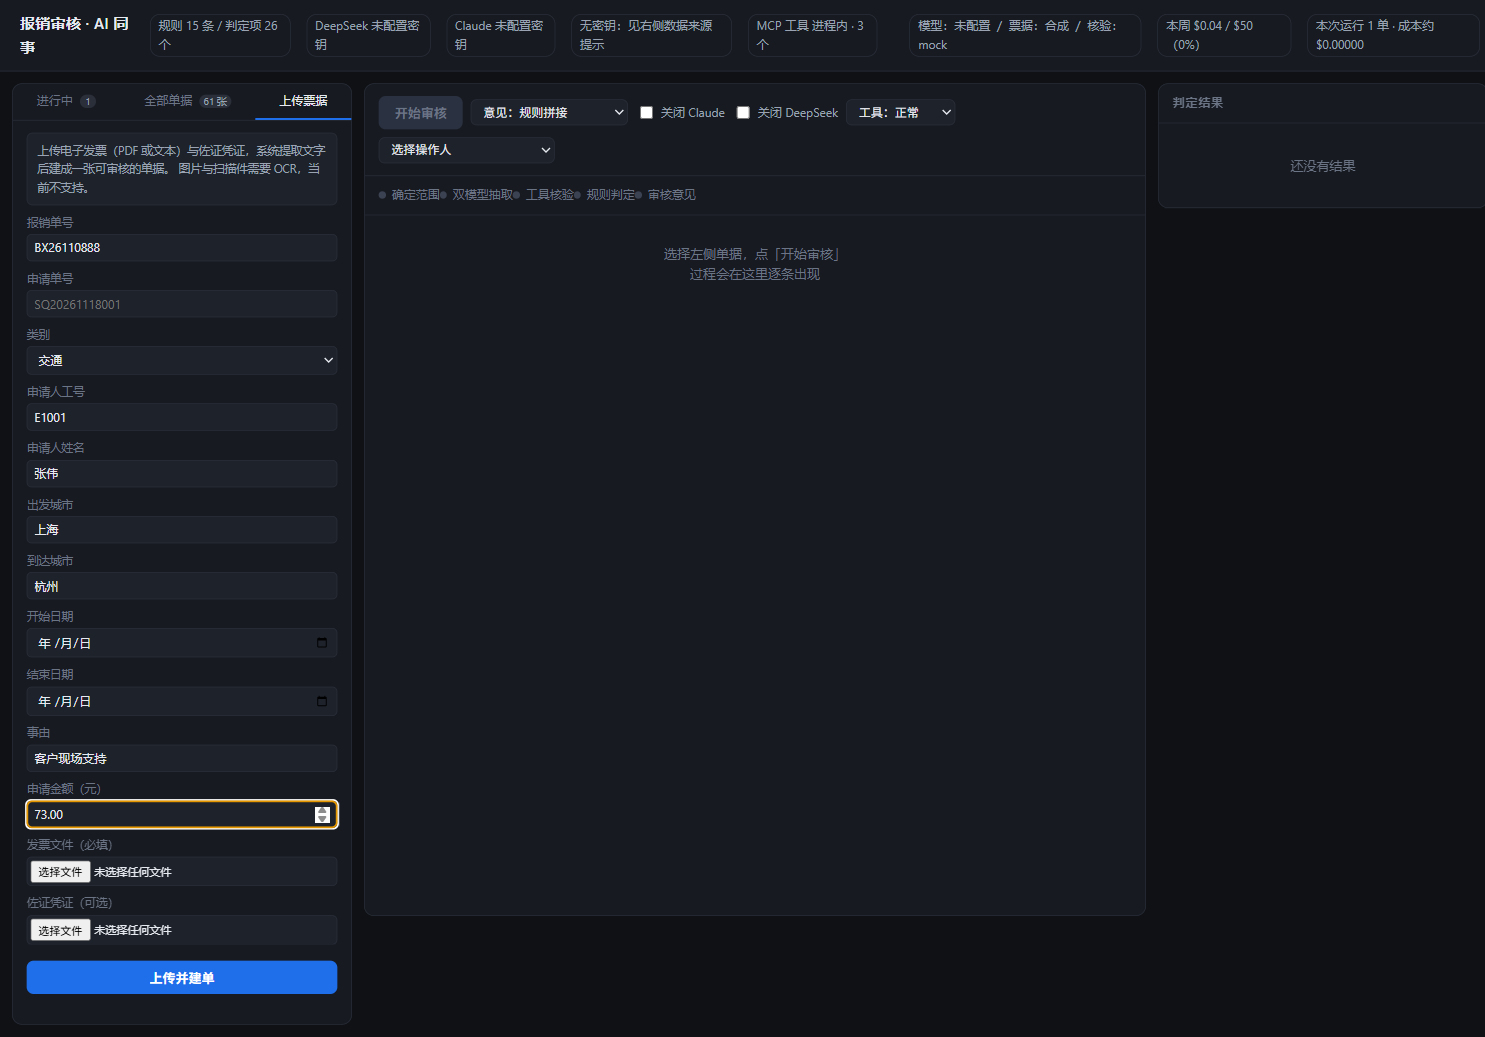
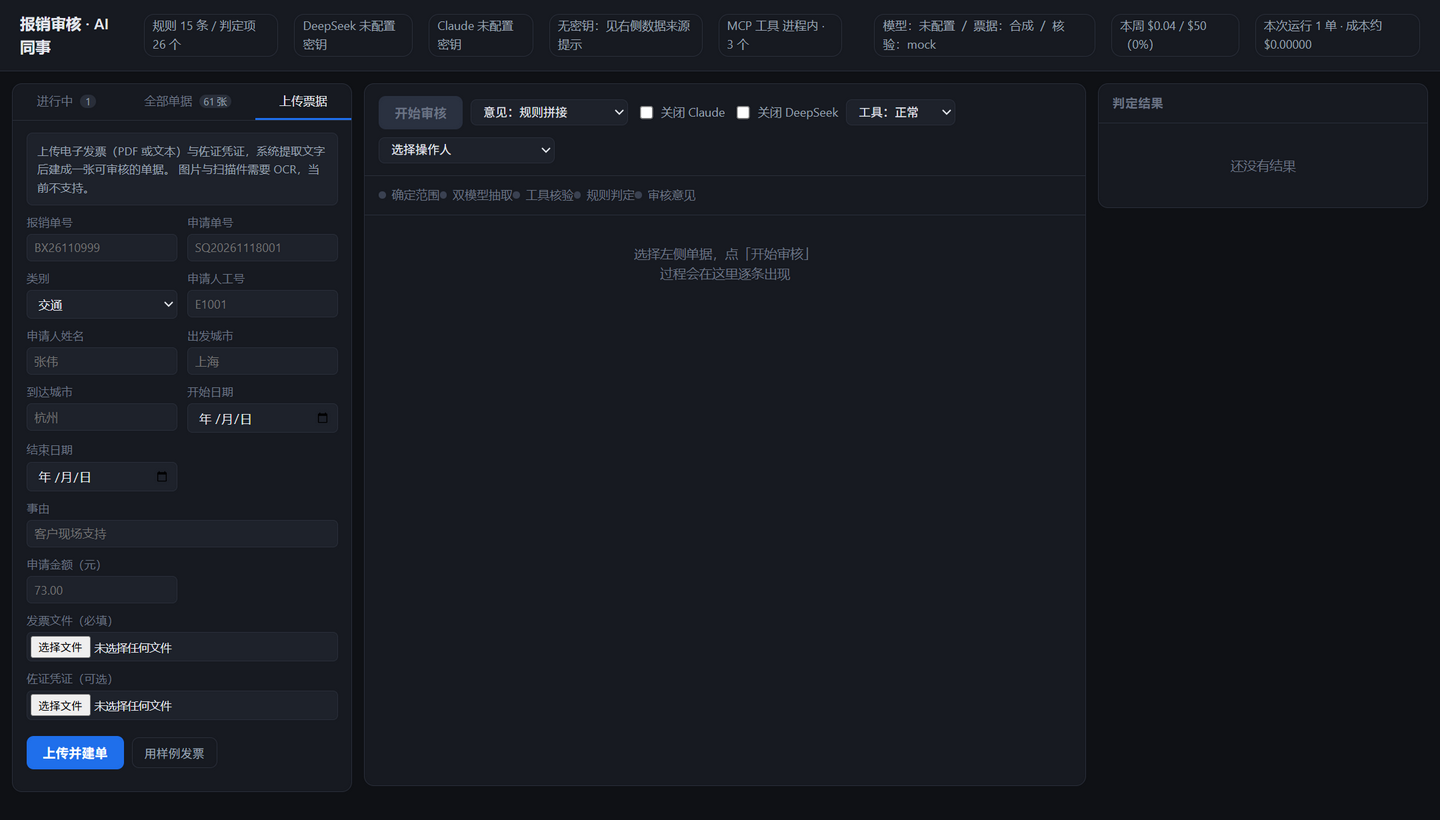
修掉"点上传按钮失败"：表单把按钮顶出了视口
现象：点「上传并建单」没反应，自动化工具报 element outside of the viewport。
量了一下：按钮在 y=960，而常见笔记本视口高度是 768–820——按钮根本不在屏幕里。

根因有三层，都不是"点击没写对"：
1. 上传表单 12 个字段单列纵向堆叠，高度约 960px，把按钮顶到了表单最下方；
2. 左栏 .panel 是 overflow:hidden，超出视口的部分永远滚不到，按钮就永远点不到；
3. 上传结果区放在按钮下方，即便点了，反馈也在屏幕外，用户会以为没生效。

改法
- 表单改两列栅格（高度减半），事由与两个文件选择器占整行；
- 按钮放进 sticky 吸底的行，滚动时始终可见；
- 左栏面板限高并允许内部滚动（.panel.left），长表单可达；
- 结果区移到整行，让反馈就在按钮下方。
- 点击后显示"正在上传 xxx（n KB）…"，避免慢网络下以为按钮坏了而重复点。

顺带补的：样例发票
- 新增 GET /api/sample-invoice 返回一份合成的电子发票 PDF；
- 界面加「用样例发票」按钮：一键填入文件与必填项，现场没有合规票据时也能验证链路。
- 这个按钮同时也是"点上传"这条路径的可复现验证手段。

验证
- 视口量测：1366×768 时按钮 top=710（视口 768）、1280×720 时 top=662（视口 720），均在屏内；
- 字段坐标确认两两成对（y 成对出现），无错位；
- 浏览器真实点击：点「用样例发票」→ 点「上传并建单」→ 建单 UP…4223、
  发票号 26157293145980000777、提取 167 字 → 自动选中并跳到列表（61 张）；
- 接着 POST /api/audit 审核该单 → 自动建任务 T0001，结论 manual_review；
- 交付包在 1366×768 下同样跑通。
- 新增 3 条回归测试锁住布局约束与样例端点；14 个包测试全绿。

关于自动化环境的说明
- Playwright MCP 在本机调用 page.click 触发 multipart 上传、或 setInputFiles 时，
  浏览器连接会重置（BROWSER_SESSION_RESET）。用 page.evaluate 触发 click()
  则一切正常，服务端能收到完整上传。
- 因此可以判定：该断连是自动化工具链路的问题，不是页面缺陷。
  上面的视口量测与真实点击验证都是用 evaluate 路径完成的。

diff --git a/reimburse-agent/internal/server/web/index.html b/reimburse-agent/internal/server/web/index.html
@@ -23,6 +23,9 @@ main{display:grid;grid-template-columns:clamp(280px,26vw,340px) minmax(320px,1fr
 @media (max-width:1000px){main{grid-template-columns:1fr}}
 @media (max-width:700px){header{flex-wrap:wrap;gap:8px}}
 .panel{background:var(--panel);border:1px solid var(--line);border-radius:10px;overflow:hidden}
+/* 左栏表单可能很长：限制高度并允许滚动，保证按钮始终可达 */
+.panel.left{max-height:calc(100vh - 90px);display:flex;flex-direction:column}
+.panel.left #uploadPane{overflow:auto;flex:1}
 .panel.right{position:sticky;top:74px;max-height:calc(100vh - 90px);display:flex;flex-direction:column}
 .panel.right .body{overflow:auto}
 .panel h2{font-size:12px;text-transform:uppercase;letter-spacing:.8px;color:var(--faint);margin:0;padding:10px 14px;border-bottom:1px solid var(--line);display:flex;justify-content:space-between;align-items:center}
@@ -131,12 +134,15 @@ pre{margin:6px 0 0;padding:8px 10px;background:#0b0d11;border:1px solid var(--li
 .tabs .n{display:inline-block;min-width:16px;padding:0 4px;border-radius:8px;background:#2a2f3a;
   color:var(--dim);font-size:10px;margin-left:4px}
 .tabs button.on .n{background:#1f3346;color:#a8c7fa}
-.upform{padding:12px 14px;display:flex;flex-direction:column;gap:8px}
+.upform{padding:12px 14px;display:grid;grid-template-columns:1fr 1fr;gap:8px 10px;align-items:start}
+.upform .full{grid-column:1 / -1}
+.upform .actions{grid-column:1 / -1;position:sticky;bottom:0;background:var(--panel);
+  padding:8px 0 2px;display:flex;gap:8px;align-items:center}
 .upform .f{display:flex;flex-direction:column;gap:3px;font-size:11.5px;color:var(--faint)}
 .upform .f input,.upform .f select{background:var(--panel2);border:1px solid var(--line);
   color:var(--fg);border-radius:5px;padding:5px 7px;font-size:12px;font-family:inherit}
 .upform .f input[type=file]{padding:3px;font-size:11px}
-.uphint{font-size:11.5px;color:var(--dim);line-height:1.6;padding:8px 10px;
+.uphint{grid-column:1 / -1;font-size:11.5px;color:var(--dim);line-height:1.6;padding:8px 10px;
   background:var(--panel2);border:1px solid var(--line);border-radius:6px}
 .upok{background:#0d1f12;border:1px solid #1d4025;color:#7ee787;font-size:12px;
   padding:8px 10px;border-radius:6px;line-height:1.6}
@@ -190,7 +196,7 @@ pre{margin:6px 0 0;padding:8px 10px;background:#0b0d11;border:1px solid var(--li
 </header>
 
 <main>
-  <section class="panel">
+  <section class="panel left">
     <div class="tabs">
       <button id="tabTasks" class="on">进行中 <span class="n" id="taskCount">0</span></button>
       <button id="tabCases">全部单据 <span class="n" id="caseCount">0</span></button>
@@ -218,12 +224,17 @@ pre{margin:6px 0 0;padding:8px 10px;background:#0b0d11;border:1px solid var(--li
         <label class="f">到达城市<input id="up_city" placeholder="杭州"></label>
         <label class="f">开始日期<input id="up_start_date" type="date"></label>
         <label class="f">结束日期<input id="up_end_date" type="date"></label>
-        <label class="f">事由<input id="up_purpose" placeholder="客户现场支持"></label>
         <label class="f">申请金额（元）<input id="up_amount" type="number" step="0.01" placeholder="73.00"></label>
-        <label class="f">发票文件（必填）<input id="up_invoice" type="file" accept=".pdf,.txt,application/pdf,text/plain"></label>
-        <label class="f">佐证凭证（可选）<input id="up_support" type="file" accept=".pdf,.txt,application/pdf,text/plain"></label>
-        <button id="upBtn" class="primary" style="margin-top:8px">上传并建单</button>
-        <div id="upResult" style="margin-top:10px"></div>
+        <label class="f full">事由<input id="up_purpose" placeholder="客户现场支持"></label>
+        
+        <label class="f full">发票文件（必填）<input id="up_invoice" type="file" accept=".pdf,.txt,application/pdf,text/plain"></label>
+        <label class="f full">佐证凭证（可选）<input id="up_support" type="file" accept=".pdf,.txt,application/pdf,text/plain"></label>
+        <div class="actions">
+          <button id="upBtn" class="primary">上传并建单</button>
+          <button id="upSample" class="ghost" title="填入一份样例电子发票，用于快速验证链路">用样例发票</button>
+          <span class="muted" id="upStatus"></span>
+        </div>
+        <div id="upResult" class="full"></div>
       </div>
     </div>
     <div id="casePane" style="display:none">
@@ -796,6 +807,10 @@ async function uploadInvoice(){
   btn.disabled = true;
   btn.textContent = "上传中…";
   $("#upResult").innerHTML = "";
+  // 明确告诉用户在传什么、多大：大文件在慢网络下要等几秒，
+  // 没反馈会让人以为按钮坏了而反复点。
+  const kb = Math.round(inv.size/1024);
+  $("#upStatus").textContent = `正在上传 ${inv.name}（${kb} KB）…`;
   try{
     const r = await fetch("/api/upload", {method:"POST", body: fd});
     const d = await r.json();
@@ -820,9 +835,39 @@ async function uploadInvoice(){
   }finally{
     btn.disabled = false;
     btn.textContent = "上传并建单";
+    if($("#upStatus")) $("#upStatus").textContent = "";
   }
 }
 
+// 用样例发票：拉一份 PDF，作为 File 塞进文件框。
+// 走 DataTransfer 而不是让用户手选，方便演示与自测；
+// 也能绕过某些环境里原生文件选择器不可用的问题。
+async function useSampleInvoice(){
+  const st = $("#upStatus");
+  st.textContent = "正在取样例发票…";
+  try{
+    const r = await fetch("/api/sample-invoice");
+    if(!r.ok) throw new Error("样例发票不可用");
+    const blob = await r.blob();
+    const f = new File([blob], "sample-invoice.pdf", {type:"application/pdf"});
+    const dt = new DataTransfer();
+    dt.items.add(f);
+    $("#up_invoice").files = dt.files;
+    st.textContent = `已填入 ${f.name}（${Math.round(f.size/1024)} KB），点「上传并建单」`;
+    // 顺手把必填项填上，减少演示时的输入。
+    if(!$("#up_claim_no").value) $("#up_claim_no").value = "BX26110666";
+    if(!$("#up_applicant_id").value) $("#up_applicant_id").value = "E1001";
+    if(!$("#up_applicant_name").value) $("#up_applicant_name").value = "张伟";
+    if(!$("#up_from_city").value) $("#up_from_city").value = "上海";
+    if(!$("#up_city").value) $("#up_city").value = "杭州";
+    if(!$("#up_purpose").value) $("#up_purpose").value = "客户现场支持";
+    if(!$("#up_amount").value) $("#up_amount").value = "73.00";
+  }catch(e){
+    st.textContent = "取样例失败：" + e.message;
+  }
+}
+
+$("#upSample").onclick = useSampleInvoice;
 $("#upBtn").onclick = uploadInvoice;
 $("#tabTasks").onclick = ()=>switchTab("tasks");
 $("#tabCases").onclick = ()=>switchTab("cases");

diff --git a/reimburse-agent/internal/server/upload_layout_test.go b/reimburse-agent/internal/server/upload_layout_test.go
@@ -1,0 +1,117 @@
+package server
+
+import (
+	"net/http/httptest"
+	"strings"
+	"testing"
+)
+
+// 上传表单的布局约束：按钮不能被表单顶出视口。
+//
+// 这是一个真实踩过的坑：12 个字段单列堆叠时表单高约 960px，
+// 而常见笔记本视口高度只有 800–900px。「上传并建单」按钮落在 y=960，
+// 用户要滚动才能看到；自动化工具更是直接报"element outside of the viewport"。
+//
+// 约束固定在样式里，不靠人记：
+//   - 表单用两列栅格（高度减半）；
+//   - 按钮放在吸底的行里（滚动时始终可见）；
+//   - 左栏面板允许内部滚动（长表单可达）。
+//
+// 这类问题只能在真浏览器里量，所以这里检查样式的关键规则是否还在；
+// 真正的视口验证在 docs 的验收步骤里用浏览器量。
+
+func TestUploadFormLayoutConstraints(t *testing.T) {
+	page := pageSource(t)
+
+	checks := []struct {
+		name string
+		need string
+		why  string
+	}{
+		{
+			"表单两列",
+			"grid-template-columns:1fr 1fr",
+			"单列 12 个字段会把按钮顶到视口外",
+		},
+		{
+			"按钮行吸底",
+			"position:sticky;bottom:0",
+			"按钮要在滚动时始终可见，不能随表单滚走",
+		},
+		{
+			"左栏可滚动",
+			".panel.left #uploadPane{overflow:auto",
+			"面板 overflow:hidden 时，超出部分永远点不到",
+		},
+		{
+			"整行元素跨列",
+			".upform .full{grid-column:1 / -1}",
+			"提示与文件选择要占满整行，否则挤在两列里变形",
+		},
+	}
+	for _, c := range checks {
+		if !strings.Contains(page, c.need) {
+			t.Errorf("%s：样式里缺少 %q\n原因：%s", c.name, c.need, c.why)
+		}
+	}
+}
+
+// 上传按钮与结果区必须存在且 id 与脚本一致：
+// 少一个 id，点击就没反应——这种错在界面上完全静默。
+func TestUploadFormElements(t *testing.T) {
+	page := pageSource(t)
+	ids := []string{
+		"tabUpload", "uploadPane", "upBtn", "upSample", "upStatus", "upResult",
+		"up_invoice", "up_support", "up_claim_no", "up_applicant_id", "up_category",
+	}
+	for _, id := range ids {
+		if !strings.Contains(page, `id="`+id+`"`) {
+			t.Errorf("缺少元素 id=%q（脚本会找不到它）", id)
+		}
+	}
+	// 脚本必须真的绑定了上传动作与样例按钮。
+	for _, fn := range []string{"uploadInvoice", "useSampleInvoice"} {
+		if !strings.Contains(page, "function "+fn) {
+			t.Errorf("缺少函数 %s", fn)
+		}
+	}
+	if !strings.Contains(page, `$("#upBtn").onclick = uploadInvoice`) {
+		t.Error("上传按钮没有绑定点击处理")
+	}
+	if !strings.Contains(page, `$("#upSample").onclick = useSampleInvoice`) {
+		t.Error("样例按钮没有绑定点击处理")
+	}
+}
+
+// 样例发票端点必须可用：现场没有合规票据时靠它验证链路。
+func TestSampleInvoiceEndpoint(t *testing.T) {
+	s := testServer(t)
+	rec := httptestRecorder()
+	s.Routes().ServeHTTP(rec, localReq("GET", "/api/sample-invoice", nil))
+
+	if rec.Code == 200 {
+		if ct := rec.Header().Get("Content-Type"); ct != "application/pdf" {
+			t.Errorf("样例应为 PDF，得到 %q", ct)
+		}
+		if rec.Body.Len() < 100 {
+			t.Errorf("样例内容过小：%d 字节", rec.Body.Len())
+		}
+		return
+	}
+	// 测试环境里没有 samples 目录时返回 404 并说明原因，不能 500。
+	if rec.Code != 404 {
+		t.Errorf("缺少样例时应 404，得到 %d", rec.Code)
+	}
+	if !strings.Contains(rec.Body.String(), "样例") {
+		t.Errorf("404 也应说明原因：%s", rec.Body.String())
+	}
+}
+
+// indexHTML 取出嵌入的页面源码。
+func pageSource(t *testing.T) string {
+	t.Helper()
+	return string(PageHTML())
+}
+
+// httptestRecorder 是 httptest.NewRecorder 的短名。
+func httptestRecorder() *httptest.ResponseRecorder { return httptest.NewRecorder() }

diff --git a/reimburse-agent/internal/server/upload.go b/reimburse-agent/internal/server/upload.go
@@ -6,6 +6,8 @@ import (
 	"fmt"
 	"io"
 	"net/http"
+	"os"
+	"path/filepath"
 	"strconv"
 	"strings"
 
@@ -287,4 +289,25 @@ func decodeB64(s string) ([]byte, error) {
 // extractInvoiceNo 从发票文本里取号码，只用于展示与查重建档。
 func extractInvoiceNo(text string) string {
 	return upload.FindInvoiceNo(text)
+}
+
+// handleSampleInvoice 返回一份样例发票 PDF，供界面"填入样例"与自己试上传用。
+//
+// 为什么要这个：现场演示时手边未必有合规的电子发票；而且用户想验证上传功能
+// 也需要一个确定可用的文件。样例是合成数据，只用于验证链路，不含真实业务信息。
+func (s *Server) handleSampleInvoice(w http.ResponseWriter, r *http.Request) {
+	if r.Method != http.MethodGet {
+		jsonOut(w, map[string]any{"error": "只支持 GET"}, 405)
+		return
+	}
+	path := filepath.Join(s.Root, "samples", "invoice-identity-h.pdf")
+	b, err := os.ReadFile(path)
+	if err != nil {
+		jsonOut(w, map[string]any{"error": "样例发票不可用：" + err.Error()}, 404)
+		return
+	}
+	w.Header().Set("Content-Type", "application/pdf")
+	w.Header().Set("Content-Disposition", `attachment; filename="sample-invoice.pdf"`)
+	w.Header().Set("Cache-Control", "no-store")
+	_, _ = w.Write(b)
 }

diff --git a/reimburse-agent/internal/server/http.go b/reimburse-agent/internal/server/http.go
@@ -51,6 +51,7 @@ func (s *Server) Routes() http.Handler {
 	mux.HandleFunc("/api/stats", s.handleStats)
 	mux.HandleFunc("/api/upload", s.handleUpload)
 	mux.HandleFunc("/api/upload/json", s.handleUploadJSON)
+	mux.HandleFunc("/api/sample-invoice", s.handleSampleInvoice)
 	return logRequests(s.withOperator(mux))
 }
 
